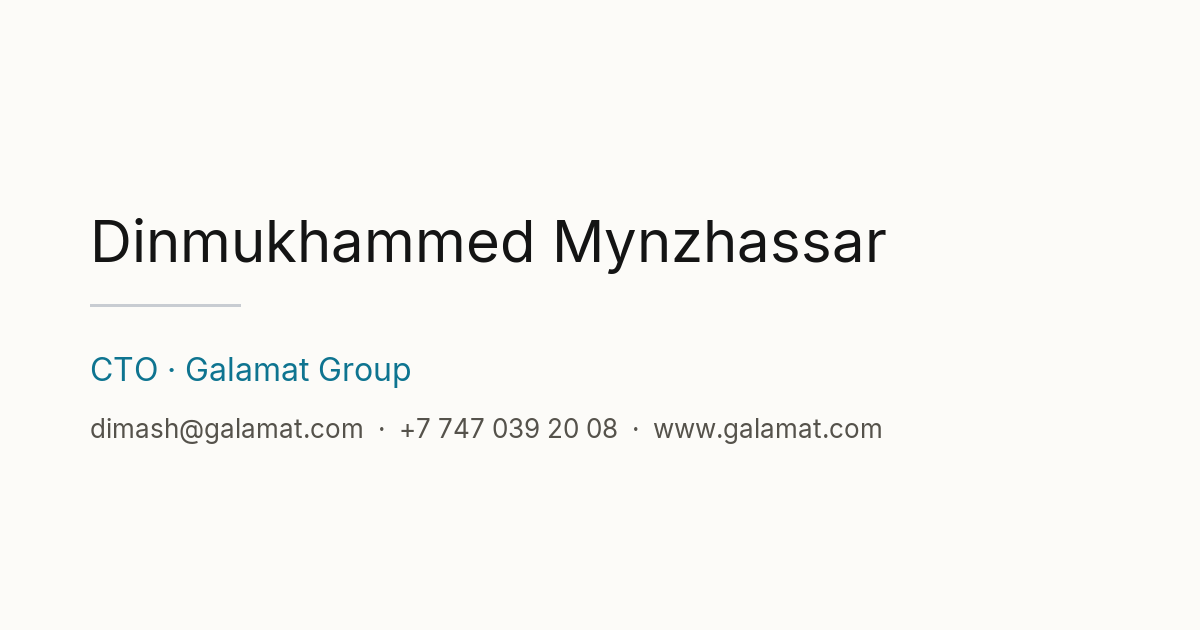
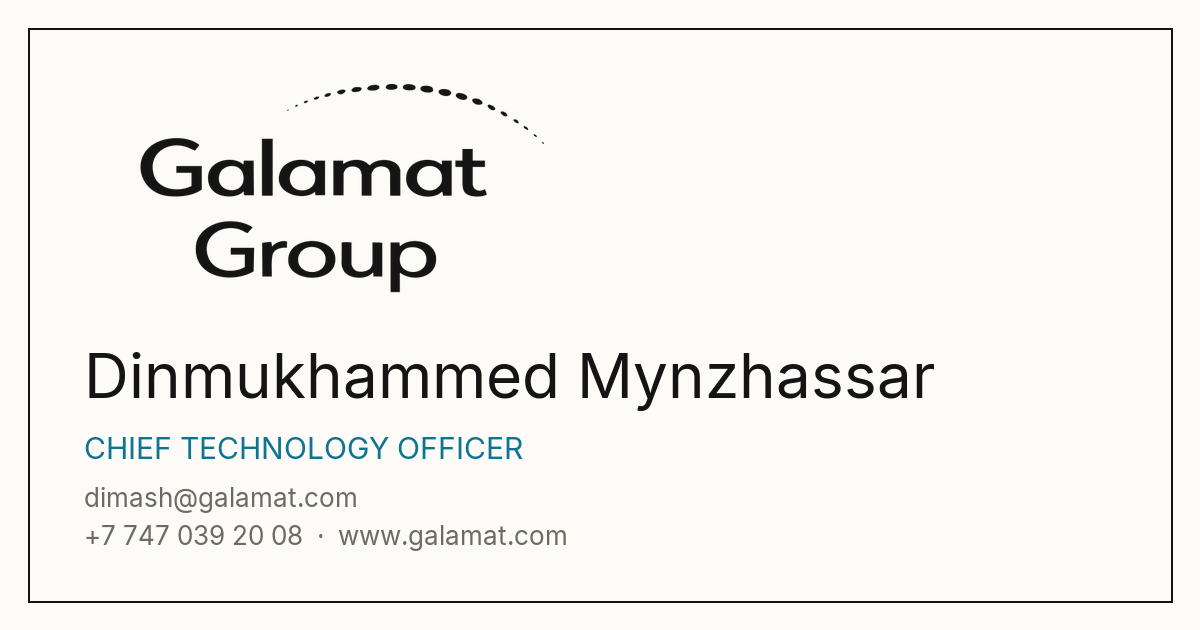
Social preview: branded OG image and complete metadata
og.png now composes the real Galamat lockup (rendered from the ink SVG)
with name, title and contacts on card stock, via scripts/render-logo.mjs
and scripts/make-og.py. Metadata gains og:url, site_name, locale, image
dimensions and alt, twitter summary card, and a theme-color viewport.

diff --git a/app/layout.tsx b/app/layout.tsx
@@ -3,7 +3,7 @@ import '@once-ui-system/core/css/tokens.css';
 import '@/resources/custom.css';
 
 import classNames from 'classnames';
-import type { Metadata } from 'next';
+import type { Metadata, Viewport } from 'next';
 
 import { Background, Column, Flex, RevealFx } from '@once-ui-system/core';
 import type { Opacity } from '@once-ui-system/core';
@@ -14,13 +14,39 @@ export const metadata: Metadata = {
   metadataBase: new URL(siteUrl),
   title: 'Dinmukhammed Mynzhassar · CTO, Galamat Group',
   description:
-    'Digital business card: Dinmukhammed Mynzhassar, CTO at Galamat Group. Phone, email and website in one place.',
+    'Digital business card of Dinmukhammed Mynzhassar, CTO at Galamat Group — phone, email, website and downloadable vCard in one place.',
+  authors: [{ name: 'Dinmukhammed Mynzhassar' }],
+  alternates: { canonical: '/' },
   openGraph: {
     type: 'profile',
+    url: '/',
+    siteName: 'Galamat Group',
+    locale: 'en_US',
     title: 'Dinmukhammed Mynzhassar · CTO, Galamat Group',
-    description: 'Digital business card · Galamat Group',
+    description:
+      'Digital business card of Dinmukhammed Mynzhassar, CTO at Galamat Group — phone, email, website and downloadable vCard in one place.',
+    images: [
+      {
+        url: '/og.png',
+        width: 1200,
+        height: 630,
+        alt: 'Business card of Dinmukhammed Mynzhassar, CTO at Galamat Group, with the Galamat Group logo',
+      },
+    ],
+  },
+  twitter: {
+    card: 'summary_large_image',
+    title: 'Dinmukhammed Mynzhassar · CTO, Galamat Group',
+    description:
+      'Digital business card — phone, email, website and downloadable vCard.',
     images: ['/og.png'],
   },
+};
+
+export const viewport: Viewport = {
+  themeColor: '#fafaf8',
+  width: 'device-width',
+  initialScale: 1,
 };
 
 const themeInit = `

diff --git a/scripts/make-og.py b/scripts/make-og.py
@@ -1,0 +1,46 @@
+"""Composes the social preview image (1200x630) for the Galamat card.
+
+Run after scripts/render-logo.mjs:
+    python scripts/make-og.py
+"""
+from PIL import Image, ImageDraw, ImageFont
+import os
+
+HERE = os.path.dirname(os.path.abspath(__file__))
+FONT = os.path.join(HERE, '..', '..', 'selfso', 'public', 'Inter.ttf')
+LOGO = os.path.join(HERE, 'og-logo.png')
+OUT = os.path.join(HERE, '..', 'public', 'og.png')
+
+W, H = 1200, 630
+INK = (20, 20, 20)
+CYAN = (14, 116, 144)
+GRAY = (110, 106, 96)
+PAPER = (252, 251, 248)
+
+og = Image.new('RGB', (W, H), PAPER)
+d = ImageDraw.Draw(og)
+
+# inner keyline frame, like the card itself
+d.rectangle([28, 28, W - 28, H - 28], outline=(20, 20, 20, 36), width=2)
+
+# logo lockup, sized from its real rendered height
+logo = Image.open(LOGO).convert('RGBA')
+lw = 460
+lh = int(logo.height * lw / logo.width)
+logo = logo.resize((lw, lh), Image.LANCZOS)
+logo_y = 84
+og.paste(logo, (84, logo_y), logo)
+
+# type block sits below the logo, computed from its actual bottom edge
+name_font = ImageFont.truetype(FONT, 62)
+role_font = ImageFont.truetype(FONT, 30)
+meta_font = ImageFont.truetype(FONT, 26)
+
+name_y = logo_y + lh + 44
+d.text((84, name_y), 'Dinmukhammed Mynzhassar', fill=INK, font=name_font)
+d.text((84, name_y + 92), 'CHIEF TECHNOLOGY OFFICER', fill=CYAN, font=role_font)
+d.text((84, name_y + 144), 'dimash@galamat.com', fill=GRAY, font=meta_font)
+d.text((84, name_y + 182), '+7 747 039 20 08  ·  www.galamat.com', fill=GRAY, font=meta_font)
+
+og.save(OUT, optimize=True)
+print('og.png', og.size)
